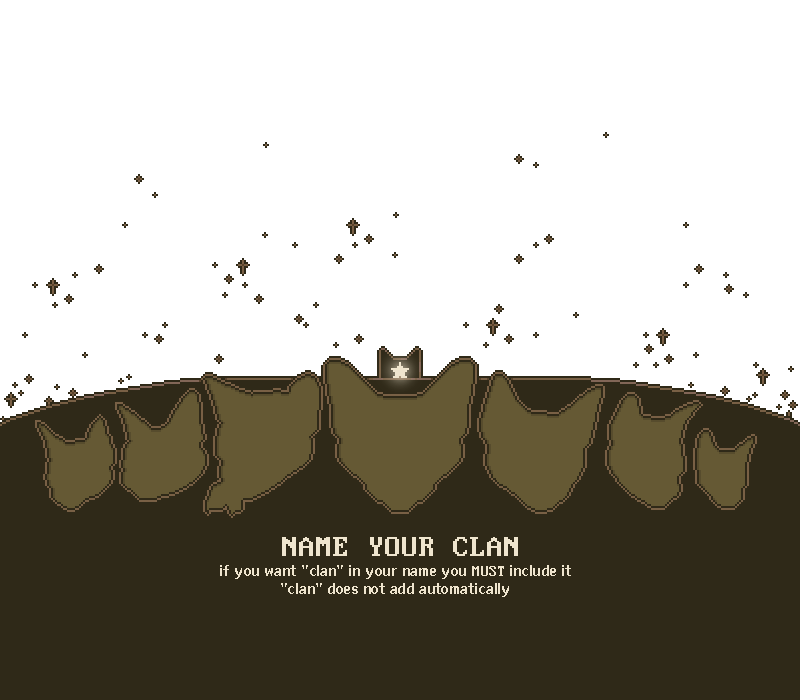
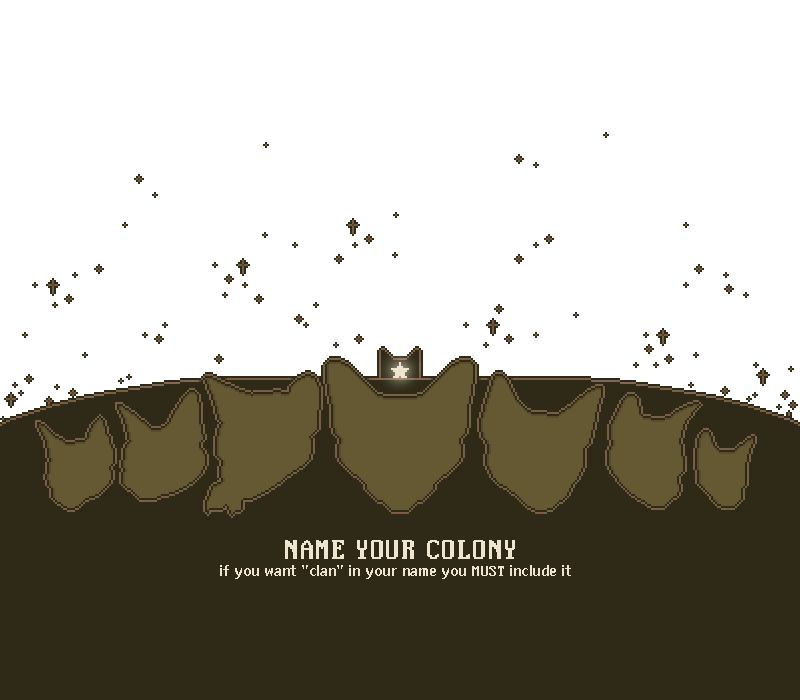
grammarfixes+"name clan"-"name colony" :p

Changed region(s): [[0.3438, 0.75, 0.6562, 0.81], [0.4062, 0.84, 0.625, 0.87]]

diff --git a/scripts/screens/MakeClanScreen.py b/scripts/screens/MakeClanScreen.py
@@ -1857,7 +1857,7 @@ class MakeClanScreen(Screens):
             ui_scale(pygame.Rect((390, 465), (34, 34))),
             "",
             object_id="@checked_checkbox" if not self.your_cat.name.specsuffix_hidden else "@unchecked_checkbox",
-            tool_tip_text="When enabled, leaders get -star, deputies get -deputy, medicine cats get role suffixes. When disabled, custom suffix is always used.",
+            tool_tip_text="When enabled, kittens get -kit, apprentices get -paw, and leaders get -star. When disabled, custom suffix is always used.",
             manager=MANAGER,
         )
         
@@ -1885,7 +1885,7 @@ class MakeClanScreen(Screens):
     def open_name_clan(self):
         """Opens the name Clan screen"""
         self.clear_all_page()
-        self.sub_screen = "name clan"
+        self.sub_screen = "name colony"
         
         # Reset clan but preserve symbol selection
         # self.symbol_selected = None  # Don't reset - preserve user's choice
@@ -1980,7 +1980,7 @@ class MakeClanScreen(Screens):
             "Old",
             get_button_dict(ButtonStyles.SQUOVAL, (80, 30)),
             object_id="@buttonstyles_squoval",
-            tool_tip_text="The Clan has existed for many moons and cats' backstories will reflect this.",
+            tool_tip_text="The colony has existed for many moons and cats' backstories will reflect this.",
             manager=MANAGER
         )
         self.elements["new"] = UISurfaceImageButton(
@@ -1988,7 +1988,7 @@ class MakeClanScreen(Screens):
             "New",
             get_button_dict(ButtonStyles.SQUOVAL, (80, 30)),
             object_id="@buttonstyles_squoval",
-            tool_tip_text="The Clan is newly established and cats' backstories will reflect this.",
+            tool_tip_text="The colony is newly established and cats' backstories will reflect this.",
             manager=MANAGER
         )
         self.elements["established"].disable()
